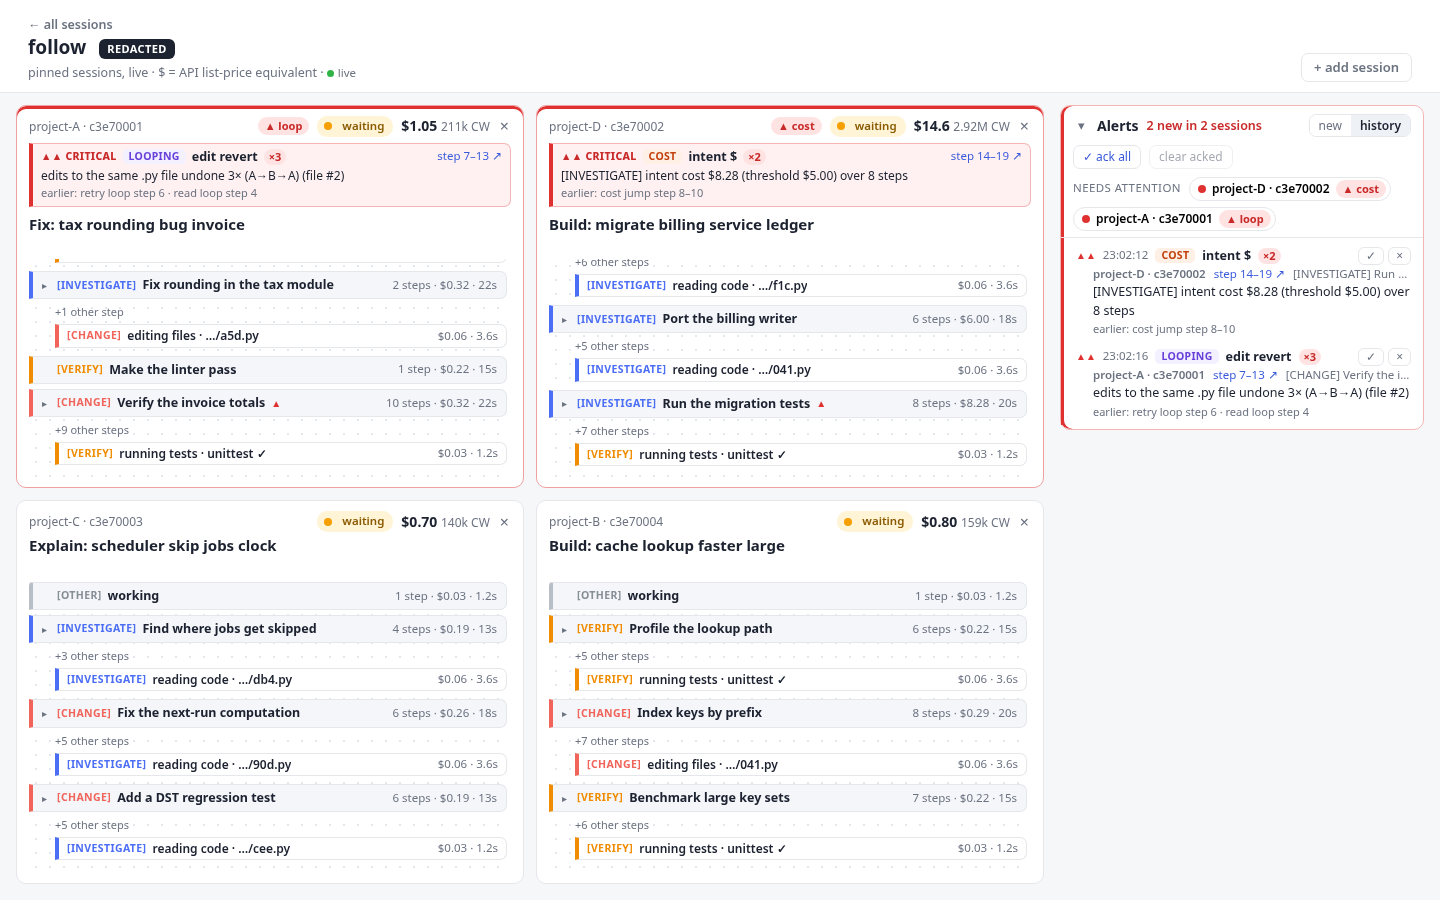
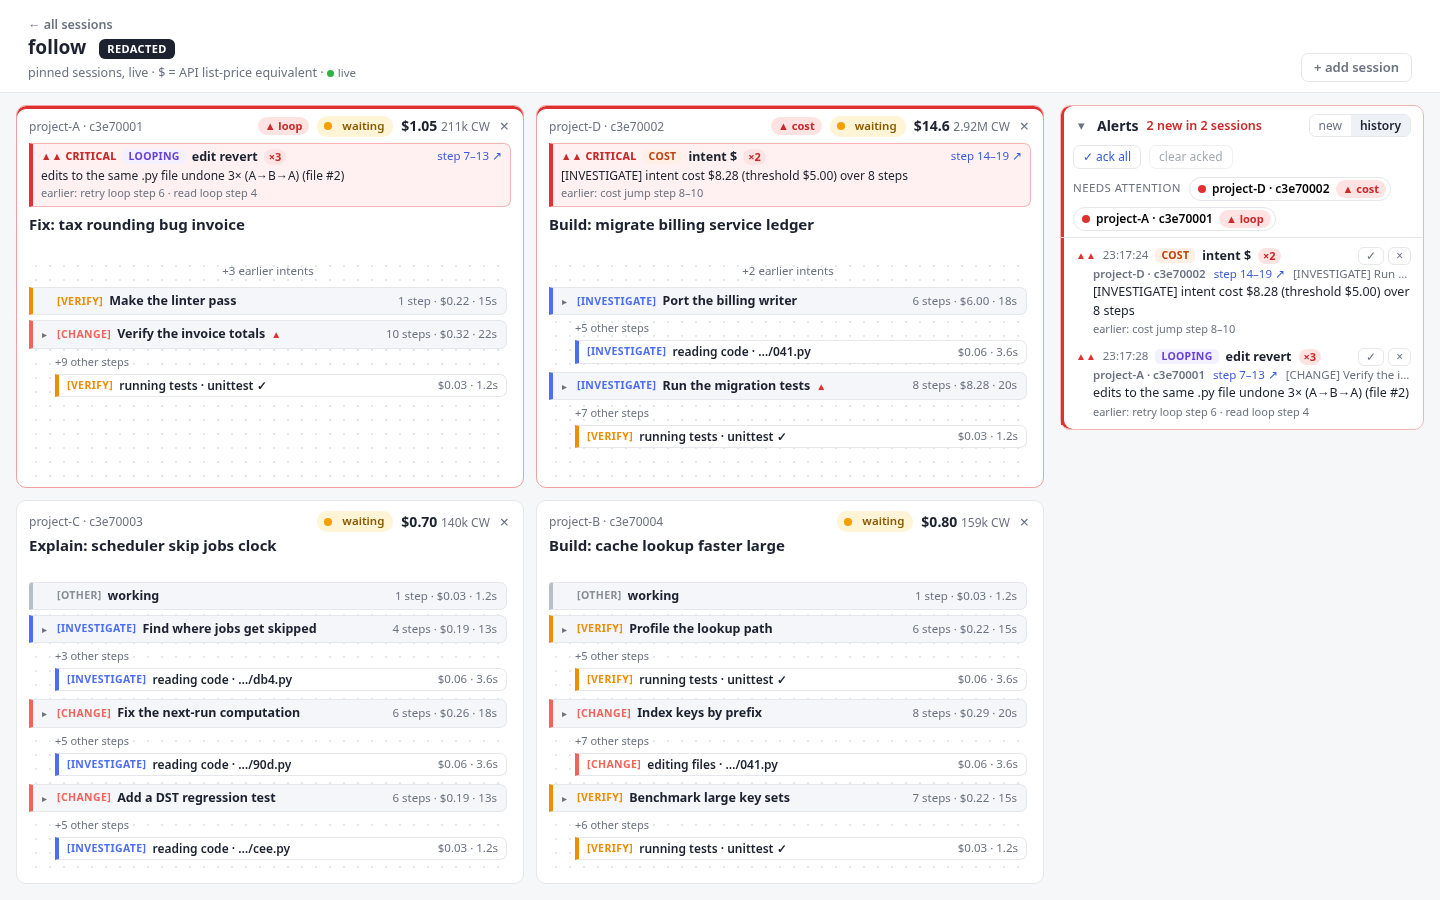
alerts v4: follow tiles drop whole intents under the alert block; README alerts overview and v4 media
- An overflowing intent flow (e.g. under a tile's alert block) folds whole intents from its top into
  "+N earlier intents" instead of cutting through the first one; the newest intent always stays.
- README: a short alerts overview (three types, one per type per session updated in place, in-tile alerts,
  intents, history, ack/dismiss/collapse, pane commands) and the v4 media: alerts-split-view.png,
  alerts-web.gif, alerts-pane.gif; the old pane-alerts.png and canvas-alerts.png are removed.

(written by Claude Code, Opus 5.5 medium)

diff --git a/tokenscope/live/static/live.js b/tokenscope/live/static/live.js
@@ -600,8 +600,28 @@
         top = Math.min(y(live), last ? y(last) : Infinity);
       }
       tile._auto = true;
+      cutIntents(tile, flow, top == null);
       flow.scrollTop = pinScrollTop(flow.clientHeight, flow.scrollHeight, top);
       setTimeout(function () { tile._auto = false; }, 50);
+    }
+    // an overflowing intent flow (e.g. under the tile's alert block) drops whole intents from its top, counted in
+    // "+N earlier intents", rather than cutting through the first one; the newest intent always stays
+    function cutIntents(tile, flow, on) {
+      var box = $(".fsteps", tile), kids = [].slice.call(box.children), groups = [], grp = null;
+      kids.forEach(function (e) { e.removeAttribute("data-cut"); });
+      box.setAttribute("data-more", tile._more || "");
+      if (!on || !tile._intents) return;
+      kids.forEach(function (e) {
+        if (!grp || e.classList.contains("fint")) groups.push(grp = {n: e.classList.contains("fint") ? 1 : 0, els: []});
+        grp.els.push(e);
+      });
+      var cut = 0;
+      for (var k = 0; k < groups.length - 1 && flow.scrollHeight > flow.clientHeight; k++) {
+        groups[k].els.forEach(function (e) { e.setAttribute("data-cut", ""); });
+        cut += groups[k].n;
+        var n = (tile._moreN || 0) + cut;
+        if (cut) box.setAttribute("data-more", "+" + n + " earlier intent" + (n > 1 ? "s" : ""));
+      }
     }
     function stepNode(x) {
       var nd = el("div", "fnode");
@@ -798,6 +818,8 @@
       var more = s.intents ? s.intents_before || 0 : s.steps_n > steps.length ? s.steps_n - steps.length : 0;
       flow.setAttribute("data-more", more ? "+" + more + " earlier " + (s.intents ? "intent" : "step") + (more > 1 ? "s" : "") : "");
       if (!steps.length) flow.setAttribute("data-more", "no steps yet");
+      tile._more = flow.getAttribute("data-more"); tile._moreN = more; tile._intents = !!s.intents;
+      cutIntents(tile, $(".fflow", tile), tile._follow && !$(".fsteps > .fbr > .fag.live", tile));
       if (tile._follow && (added || tile._seq !== s.seq)) scrollEnd(tile);
       tile._seq = s.seq;
       tile._now = s.now ? {tool: s.now.tool, target: s.now.target, agent: s.now.agent, since: s.now.since_s, at: nowS()} : null;

diff --git a/tokenscope/live/static/live.css b/tokenscope/live/static/live.css
@@ -197,6 +197,7 @@ body[data-page=session] header{position:static}
 .fflow{flex:1;min-height:0;overflow-y:auto;margin-top:4px;padding:2px 4px 6px 0;background-image:radial-gradient(#e3e7ee 1px,transparent 1px);background-size:14px 14px;border-radius:6px}
 .fsteps::before{content:attr(data-more);display:block;color:var(--mut);font-size:11.5px;text-align:center;padding:2px 0 4px}
 .fsteps[data-more=""]::before{display:none}
+.fsteps>[data-cut]{display:none!important}
 .fnode{position:relative;display:flex;align-items:center;gap:6px;margin:0 0 10px 10px;background:#fff;border:1px solid var(--line);border-left:4px solid #ccc;border-radius:0 7px 7px 0;padding:4px 9px;font-size:12.5px;animation:fin .35s ease-out}
 .fnode+.fnode::before{content:"";position:absolute;left:12px;top:-11px;height:10px;border-left:2px solid #d5dae3}
 .fnode .cat{font-size:10.5px;font-weight:700;flex:none}

diff --git a/tests/test_alert_history.py b/tests/test_alert_history.py
@@ -507,6 +507,11 @@ class TestBrowser(unittest.TestCase):
             self.assertIn("earlier: ", lrow.inner_text())
             self.assertIn("step %d" % la["step"], lrow.locator(".astep").inner_text())
             self.assertGreaterEqual(tile.locator(".fsteps .fint").count(), 1)   # the intents are still there
+            # under the block, the flow never cuts through an intent: its first shown intent header is whole
+            cut = pg.evaluate("""(() => { var f = document.querySelector('.ftile .fflow'), r = f.getBoundingClientRect();
+                var h = [...f.querySelectorAll('.fsteps > .fint')].find(e => e.offsetHeight);
+                return h.getBoundingClientRect().top - r.top; })()""")
+            self.assertGreaterEqual(cut, 0)
             top = pg.evaluate("[...document.querySelector('.ftile').children].map(e => e.className)")
             self.assertLess(top.index("ftal"), top.index("fflow"))   # above the flow
             lrow.locator(".astep").click()

diff --git a/README.md b/README.md
@@ -45,7 +45,8 @@ truncation handled) and shows:
   context gauge, and the idle recap (costliest and slowest intent, up to 3 hints, cross-session ones marked) while the
   session waits for you. `?replay=1` replays a recorded session server-side as if it were live (about 90 s;
   `&duration=<s>`). The canvas is a vendored React Flow build (`web/canvas/`, licences in THIRD_PARTY_NOTICES.md).
-- **Alerts** (cost, off-task, looping): a banner in the pane, markers on the canvas, chips on the board. See
+- **Alerts** (cost, off-task, looping): in full at the top of each follow tile, a section in the pane, markers on
+  the canvas, chips on the board. See
   [Alerts](#alerts-cost-off-task-looping) below.
 - **Live warnings** (rare by design; a normal fail -> edit -> fail -> edit -> green session shows none; each comes
   with a short hint): `stuck_error` (the same normalised error 3+ times with no edit in between, per thread),
@@ -84,9 +85,24 @@ to `~/.cache/tokenscope-live/events.jsonl` (`$TOKENSCOPE_LIVE_EVENTS`). It never
 
 ### Alerts: cost, off-task, looping
 
-![pane: the alerts section under the header, a new alert in full (message and earlier triggers)](docs/media/pane-alerts.png)
+![follow view: each tile's alerts in full at its top, and the alerts column with "needs attention"](docs/media/alerts-split-view.png)
 
-![canvas: alert markers on the affected steps, tooltip on hover](docs/media/canvas-alerts.png)
+In short:
+
+- **Three types**: cost, off-task (drift from the active intent; opt-in) and looping. **One alert per type per
+  session**, updated in place: its severity only escalates, it shows the latest reason and step, counts its triggers
+  (`×N`) and lists the earlier ones.
+- **In the tiles**: each follow tile shows its alerts in full at its top; the intents stay visible under them, each
+  with `+N other steps` and its latest step (whole intents fold into `+N earlier intents` when the tile is short).
+- **History**: kept on disk (`~/.cache/tokenscope/alerts-history.jsonl`) until you **ack** it (stays, dimmed) or
+  **dismiss** it (leaves). An acked or dismissed alert comes back only when it escalates. The alerts section
+  collapses to one line.
+- **Pane**: `/tokenscope alerts` (the history), `/tokenscope alerts show|hide`, `/tokenscope ack <#|all>`,
+  `/tokenscope dismiss <#|all>`, and `/tokenscope expand <n|all>` for an intent's steps.
+
+![web: alerts arriving and escalating inside the follow tiles, no clicks](docs/media/alerts-web.gif)
+
+![pane: a loop escalating to edit revert ×3, each alert in full with its earlier triggers](docs/media/alerts-pane.gif)
 
 Three kinds of alerts, computed from the same live model as the views (`tokenscope/alerts.py`), each pointing at the
 step (or step range) it is about:
@@ -149,8 +165,6 @@ and the newest one's message and step, and it is new if any of them was. The fil
 the session id, and the project / goal / step labels as the server showed them (masked unless `--no-redact`). The
 server records alerts from its poll loop, whether or not a view is open.
 
-![follow view: each tile's alerts in full at its top, and the alerts column with "needs attention"](docs/media/alerts-split-view.png)
-
 Where they show:
 
 - **Web (board, follow view, session canvas)**: an **Alerts** section with the history across sessions, one row per
@@ -171,7 +185,8 @@ Where they show:
   alert (at most 3, in cost / off-task / looping order), tinted by severity, with the severity, kind, rule, `×N`,
   `↻ back`, the latest step's link (`step N ↗` scrolls the tile to that step), the whole message (wrapped, never
   cut) and the earlier triggers (one line). Acknowledged ones stay dimmed (message on one line, no earlier
-  triggers); dismissed ones leave. You see what is wrong without opening the alerts section. The canvas marks
+  triggers); dismissed ones leave. You see what is wrong without opening the alerts section. When the block leaves
+  too little room, the flow drops whole intents from its top into `+N earlier intents` rather than cutting one. The canvas marks
   the node holding each alert's latest step (▲, coloured by severity; hover for the alert and its earlier
   triggers, click for the side panel) and lists them in an ALERTS row (`retry loop ×3 · 23`); acknowledged ones
   leave the nodes and stay in the drawer.
